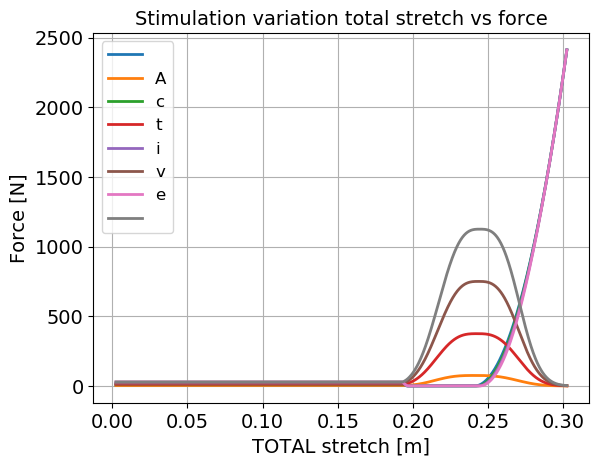
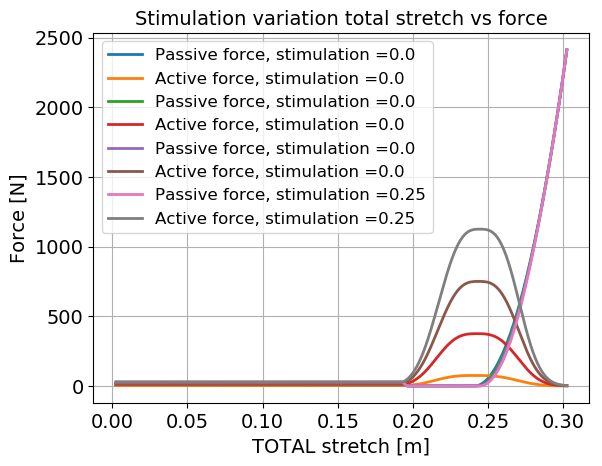
Fixed legends for 1b

Changed region(s): [[0.2392, 0.0901, 0.7176, 0.5107]]

diff --git a/LAB05/Python/exercise1.py b/LAB05/Python/exercise1.py
@@ -82,10 +82,9 @@ def plot_all_force_vs_stretch(active_force, passive_force, total_force, stretch,
     plt.grid()
 
 
-def add_force_to_plot(handle, force, l, legend):
+def add_force_to_plot(handle, force, l):
     plt.figure(handle)
     plt.plot(l, force)
-    plt.legend(legend)
     plt.grid()
 
 def plot_isometric_data(active_force, passive_force, total_force, l_ce, l_slack, l_mtc):
@@ -141,6 +140,7 @@ def iso_experiment(muscle_stimulation=1, ce_stretch_max=1.5, ce_stretch_min=0.5,
 
     return active_force, passive_force, total_force, l_ce, l_slack, l_mtc
 
+
 def exercise1a(time_param):
     """ Exercise 1a
     The goal of this exercise is to understand the relationship
@@ -183,6 +183,7 @@ def exercise1b(time_param):
     figure_titles = ["Stimulation variation CE stretch vs force", "Stimulation variation SLACK stretch vs force",
                      "Stimulation variation total stretch vs force"]
     figure_x_label = ["CE stretch [m]", "SLACK stretch [m]", "TOTAL stretch [m]"]
+    force_legends = []
     for handle, title, x_label in zip(figure_handles, figure_titles, figure_x_label):
         plt.figure(handle)
         plt.title(title)
@@ -201,9 +202,22 @@ def exercise1b(time_param):
 
         # Plots
         for handle, length in zip(figure_handles, lengths):
-            add_force_to_plot(handle, passive_force, length, " Passive force, stimulation ={}".format(stim))
-            add_force_to_plot(handle, active_force, length, " Active force, stimulation ={}".format(stim))
+            add_force_to_plot(handle, passive_force, length)
+            add_force_to_plot(handle, active_force, length)
+            force_legends.append("Passive force, stimulation ={}".format(stim))
+            force_legends.append("Active force, stimulation ={}".format(stim))
+    for handle in figure_handles:
+        plt.figure(handle)
+        plt.legend(force_legends)
     # endregion
+
+
+def exercise1c():
+
+    l_opt_1 = 0.5
+    l_opt_2 = 0.05
+
+
 
 def exercise1d():
     """ Exercise 1d
